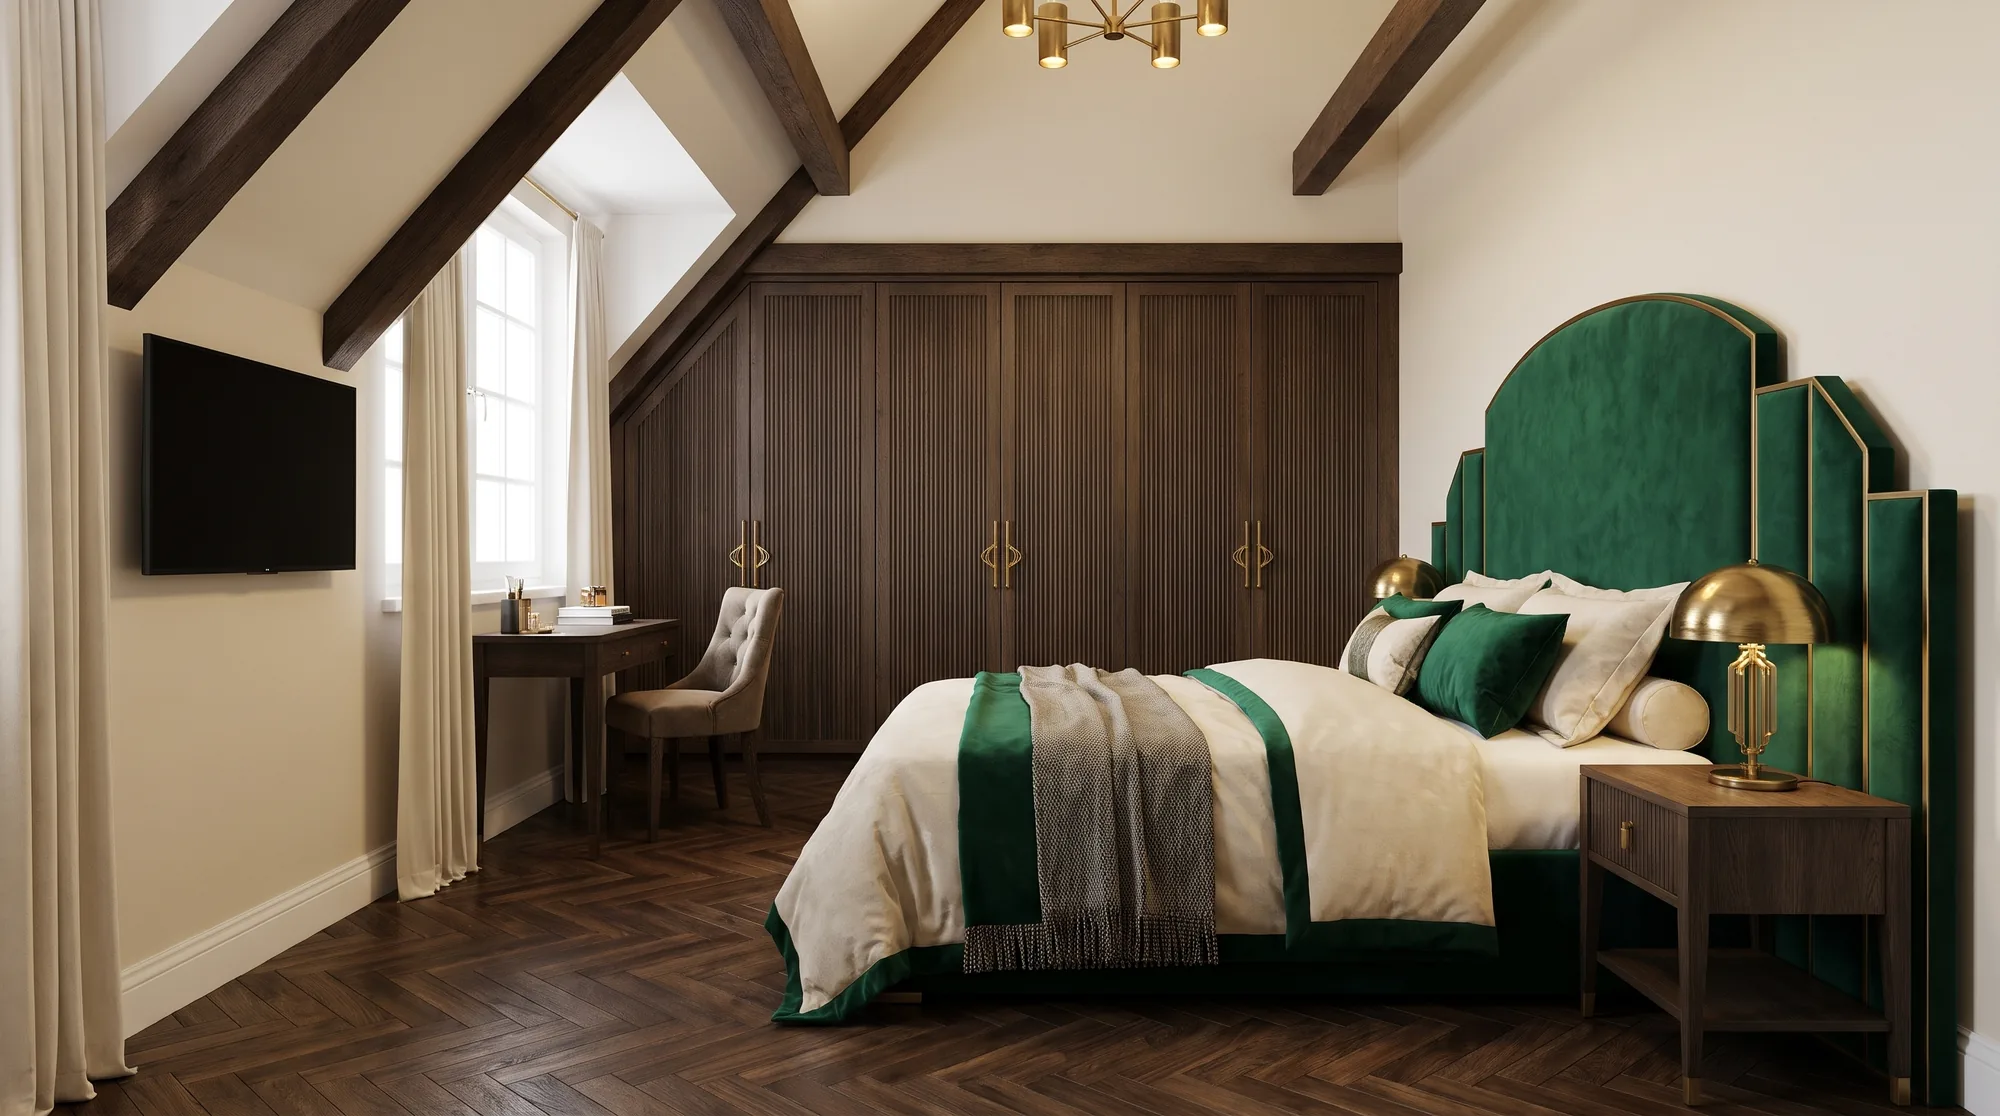
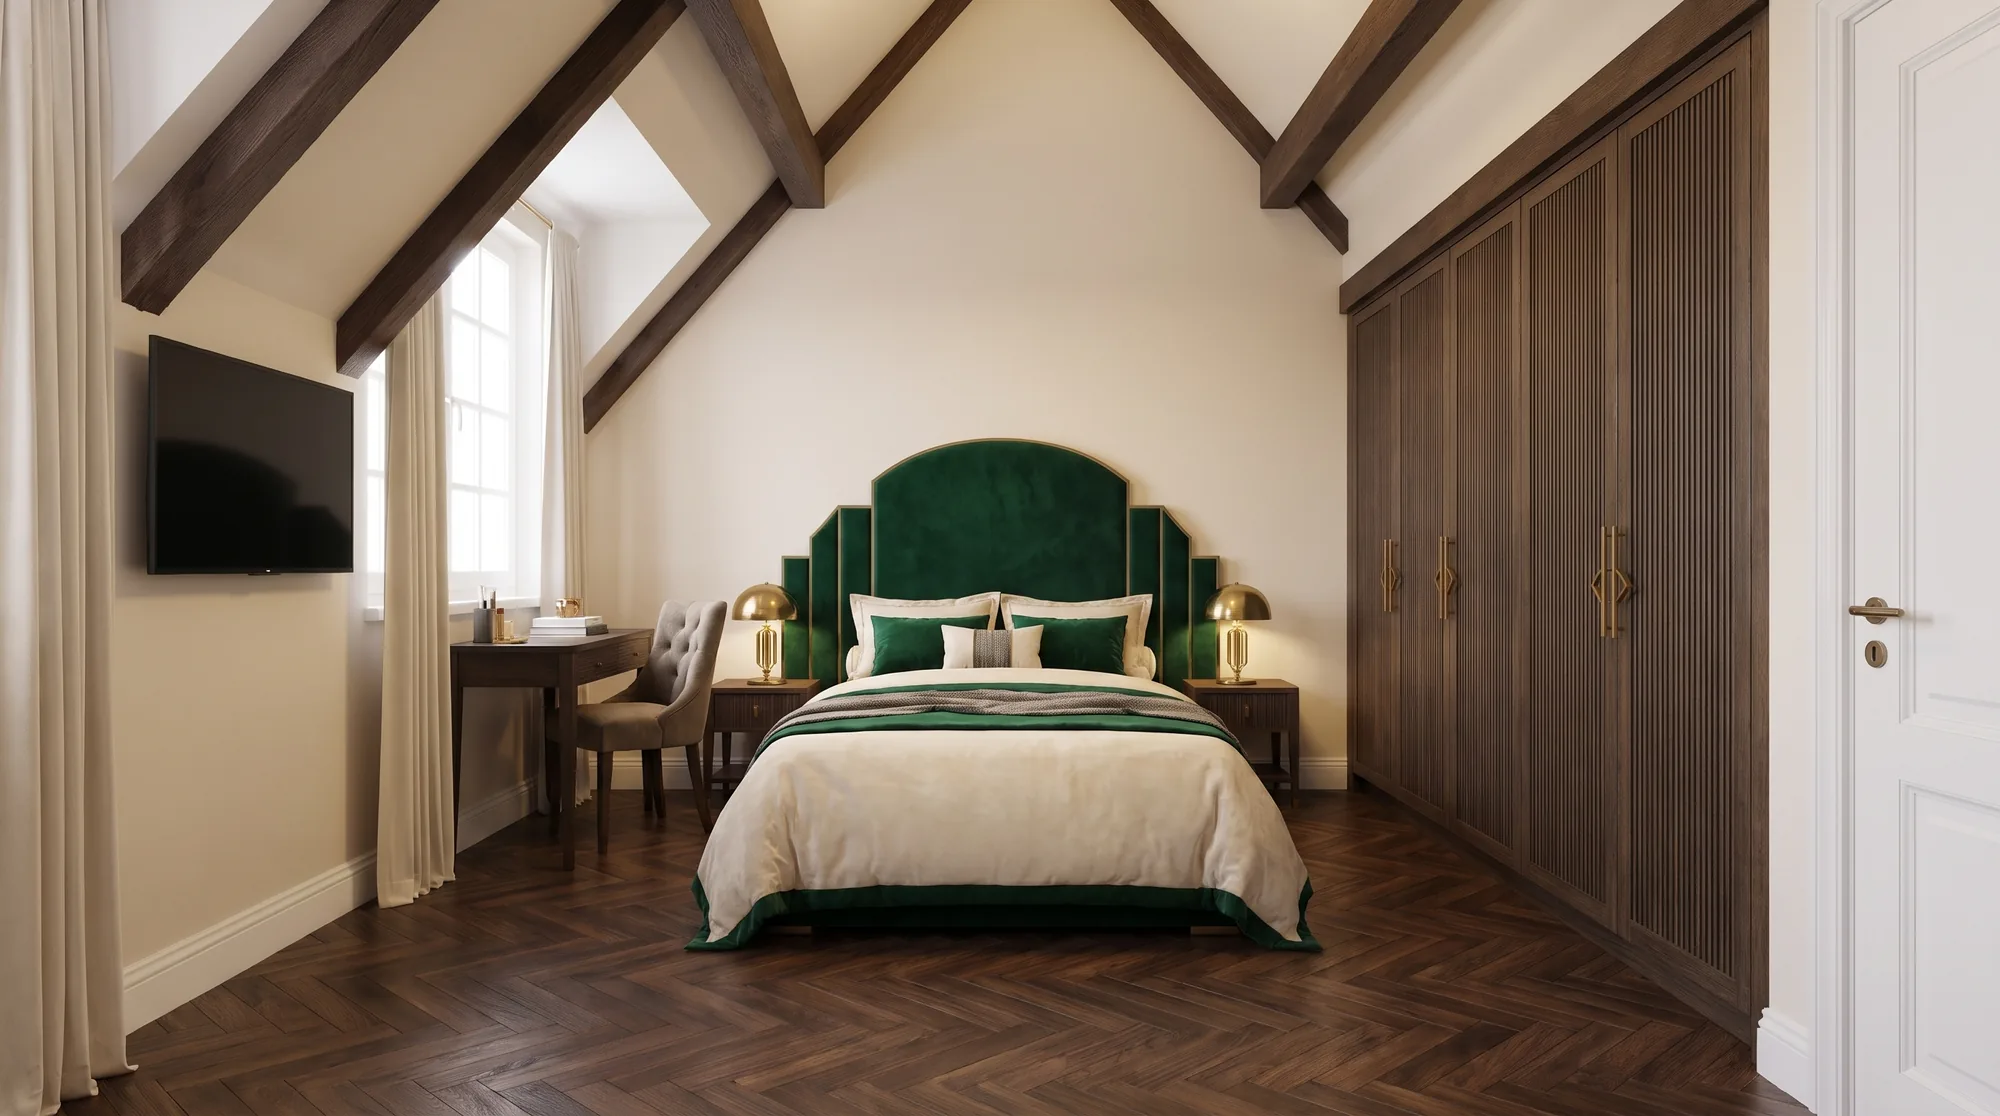
Lakások: pontos felülnézetek és új enteriőrök az 1., 3., 4. és 5. lakáshoz
Claude-Session: https://claude.ai/code/session_018xvr5icGNy1B7YPTSB9UEA

diff --git a/index.html b/index.html
@@ -624,19 +624,20 @@ footer li{list-style:none;margin-bottom:8px}
             <button class="btn btn-solid fp-cta" data-flat="3. lakás — 2. emelet, 71,62 m²">Ajánlatot kérek erre a lakásra</button>
           </div>
         </header>
-        <div class="fp-views" role="group" aria-label="Nézet"><button class="fv-btn" aria-pressed="true" data-view="top1">Alsó szint</button><button class="fv-btn" aria-pressed="false" data-view="top2">Felső szint</button><button class="fv-btn" aria-pressed="false" data-view="plan">Alaprajz m²-rel</button></div>
+        <div class="fp-views" role="group" aria-label="Nézet"><button class="fv-btn" aria-pressed="true" data-view="t0">Alsó szint</button><button class="fv-btn" aria-pressed="false" data-view="t1">Felső szint</button><button class="fv-btn" aria-pressed="false" data-view="plan">Alaprajz m²-rel</button></div>
         <div class="fp-plan">
-          <figure class="fv lbx" data-view="top1" data-cap="3. lakás – alsó szint, berendezett felülnézet"><img src="images/lakasok/l3-felulnezet-also.webp" alt="A 3. lakás alsó szintjének berendezett felülnézete: nappali-étkező lépcsővel, konyha, előszoba, WC" loading="lazy"></figure>
-          <figure class="fv lbx" data-view="top2" data-cap="3. lakás – felső szint, berendezett felülnézet" hidden><img src="images/lakasok/l3-felulnezet-felso.webp" alt="A 3. lakás felső szintjének berendezett felülnézete: két hálószoba és fürdőszoba" loading="lazy"></figure>
+          <figure class="fv lbx" data-view="t0" data-cap="3. lakás – alsó szint, berendezett felülnézet"><img src="images/lakasok/l3-felulnezet-also.webp" alt="A 3. lakás alsó szint, berendezett felülnézet" loading="lazy"></figure>
+          <figure class="fv lbx" data-view="t1" data-cap="3. lakás – felső szint, berendezett felülnézet" hidden><img src="images/lakasok/l3-felulnezet-felso.webp" alt="A 3. lakás felső szint, berendezett felülnézet" loading="lazy"></figure>
           <figure class="fv lbx" data-view="plan" data-cap="3. lakás – alaprajz" hidden><img src="images/lakasok/l3-alaprajz.webp" alt="A 3. lakás alaprajza helyiségenkénti alapterülettel" loading="lazy"></figure>
         </div>
-        <p class="fp-note fp-note-plan"><b>Alaprajz a tervek alapján.</b> Az alaprajz és a felülnézetek a jóváhagyott tervrajz szerinti elrendezést mutatja; a helyiségenkénti területek számított, tájékoztató értékek, a lakás hivatalos hasznos alapterülete 71,62 m².</p>
+        <p class="fp-note fp-note-plan"><b>Alaprajz a tervek alapján.</b> Az alaprajz és a berendezett felülnézet a jóváhagyott tervrajz szerinti elrendezést mutatja; a helyiségenkénti területek számított, tájékoztató értékek, a lakás hivatalos hasznos alapterülete 71,62 m².</p>
         <div class="fp-gal">
-          <figure class="lbx" data-cap="Nappali"><img src="images/lakasok/l3-nappali.webp" alt="Nappali – smaragdzöld bársonykanapé, márvány dohányzóasztal, lépcső a felső szintre" loading="lazy"><figcaption>Nappali</figcaption></figure>
-          <figure class="lbx" data-cap="Étkező és konyha"><img src="images/lakasok/l3-etkezo-konyha.webp" alt="Étkező és konyha – smaragdzöld lakkozott konyhabútor Verde Alpi márvánnyal, sárgaréz csillár" loading="lazy"><figcaption>Étkező és konyha</figcaption></figure>
-          <figure class="lbx" data-cap="Hálószoba"><img src="images/lakasok/l3-haloszoba-1.webp" alt="Tetőtéri hálószoba – íves smaragd bársony ágytámla, bordázott tölgy beépített szekrény, gerendák" loading="lazy"><figcaption>Hálószoba</figcaption></figure>
-          <figure class="lbx" data-cap="Második hálószoba"><img src="images/lakasok/l3-haloszoba-2.webp" alt="Második tetőtéri hálószoba – íróasztal az ablaknál, beépített szekrény, kerek sárgaréz tükör" loading="lazy"><figcaption>Második hálószoba</figcaption></figure>
-          <figure class="lbx" data-cap="Fürdőszoba"><img src="images/lakasok/l3-furdoszoba.webp" alt="Tetőtéri fürdőszoba – Verde Alpi zöld márvány, kád, kerek kőmosdó, sárgaréz szerelvények" loading="lazy"><figcaption>Fürdőszoba</figcaption></figure>
+          <figure class="lbx" data-cap="Nappali és étkező"><img src="images/lakasok/l3-nappali.webp" alt="Nappali és étkező – smaragd bársonykanapé, fotelek, étkezőasztal, lépcső a felső szintre" loading="lazy"><figcaption>Nappali és étkező</figcaption></figure>
+          <figure class="lbx" data-cap="Konyha"><img src="images/lakasok/l3-konyha.webp" alt="Konyha – smaragdzöld konyhabútor Verde Alpi márvánnyal, két párhuzamos pultsor" loading="lazy"><figcaption>Konyha</figcaption></figure>
+          <figure class="lbx" data-cap="Előszoba"><img src="images/lakasok/l3-eloszoba.webp" alt="Előszoba – gardrób akasztóval és ülőpaddal, kilátás a nappaliba és a WC-be" loading="lazy"><figcaption>Előszoba</figcaption></figure>
+          <figure class="lbx" data-cap="Hálószoba (tetőtér)"><img src="images/lakasok/l3-haloszoba-1.webp" alt="Tetőtéri hálószoba – íves smaragd ágytámla, beépített szekrényfal, gerendák" loading="lazy"><figcaption>Hálószoba (tetőtér)</figcaption></figure>
+          <figure class="lbx" data-cap="Második hálószoba"><img src="images/lakasok/l3-haloszoba-2.webp" alt="Második tetőtéri hálószoba – íróasztal az ablaknál, beépített szekrény" loading="lazy"><figcaption>Második hálószoba</figcaption></figure>
+          <figure class="lbx" data-cap="Fürdőszoba"><img src="images/lakasok/l3-furdoszoba.webp" alt="Tetőtéri fürdőszoba – Verde Alpi márvány, kád, kerek kőmosdó" loading="lazy"><figcaption>Fürdőszoba</figcaption></figure>
         </div>
         <p class="fp-note"><b>Tájékoztató jellegű látványképek.</b> A belső képek illusztrációk: a berendezés, a bútorok, a világítás és az anyaghasználat a hangulatot mutatják, nem képezik az eladás tárgyát.</p>
       </article>
@@ -653,11 +654,19 @@ footer li{list-style:none;margin-bottom:8px}
             <button class="btn btn-solid fp-cta" data-flat="4. lakás — tetőtéri szint, 52,97 m²">Ajánlatot kérek erre a lakásra</button>
           </div>
         </header>
-        <div class="fp-plan fp-plan-only">
-          <figure class="fv lbx" data-view="plan" data-cap="4. lakás – alaprajz"><img src="images/lakasok/l4-alaprajz.webp" alt="A 4. lakás alaprajza helyiségenkénti alapterülettel" loading="lazy"></figure>
+        <div class="fp-views" role="group" aria-label="Nézet"><button class="fv-btn" aria-pressed="true" data-view="t0">Berendezett felülnézet</button><button class="fv-btn" aria-pressed="false" data-view="plan">Alaprajz m²-rel</button></div>
+        <div class="fp-plan">
+          <figure class="fv lbx" data-view="t0" data-cap="4. lakás – berendezett felülnézet"><img src="images/lakasok/l4-felulnezet.webp" alt="A 4. lakás berendezett felülnézet" loading="lazy"></figure>
+          <figure class="fv lbx" data-view="plan" data-cap="4. lakás – alaprajz" hidden><img src="images/lakasok/l4-alaprajz.webp" alt="A 4. lakás alaprajza helyiségenkénti alapterülettel" loading="lazy"></figure>
         </div>
-        <p class="fp-note fp-note-plan"><b>Alaprajz a tervek alapján.</b> Az alaprajz a jóváhagyott tervrajz szerinti elrendezést mutatja; a helyiségenkénti területek számított, tájékoztató értékek, a lakás hivatalos hasznos alapterülete 52,97 m².</p>
-        <div class="fp-soon"><span>Enteriőr látványtervek hamarosan</span><a href="#ajanlat" class="fp-soon-link" data-flat="4. lakás — tetőtéri szint, 52,97 m²">Kérje el elsőként</a></div>
+        <p class="fp-note fp-note-plan"><b>Alaprajz a tervek alapján.</b> Az alaprajz és a berendezett felülnézet a jóváhagyott tervrajz szerinti elrendezést mutatja; a helyiségenkénti területek számított, tájékoztató értékek, a lakás hivatalos hasznos alapterülete 52,97 m².</p>
+        <div class="fp-gal">
+          <figure class="lbx" data-cap="Nappali, étkező és konyha"><img src="images/lakasok/l4-nappali.webp" alt="Nappali, étkező és konyha egy légtérben – tetőtéri gerendák, üvegtégla sáv, bouclé kanapé" loading="lazy"><figcaption>Nappali, étkező és konyha</figcaption></figure>
+          <figure class="lbx" data-cap="Konyha"><img src="images/lakasok/l4-konyha.webp" alt="U alakú konyha travertin pulttal és terrakotta csempével" loading="lazy"><figcaption>Konyha</figcaption></figure>
+          <figure class="lbx" data-cap="Hálószoba"><img src="images/lakasok/l4-haloszoba.webp" alt="Hálószoba – beépített szekrényfal TV-vel, terrakotta ágytámla" loading="lazy"><figcaption>Hálószoba</figcaption></figure>
+          <figure class="lbx" data-cap="Fürdőszoba"><img src="images/lakasok/l4-furdoszoba.webp" alt="Fürdőszoba – travertin kád, beépített mosógép, kőmosdó" loading="lazy"><figcaption>Fürdőszoba</figcaption></figure>
+        </div>
+        <p class="fp-note"><b>Tájékoztató jellegű látványképek.</b> A belső képek illusztrációk: a berendezés, a bútorok, a világítás és az anyaghasználat a hangulatot mutatják, nem képezik az eladás tárgyát.</p>
       </article>
       <article class="flat-panel" id="lakas-5" role="tabpanel" aria-labelledby="ft-5" hidden>
         <header class="fp-head">
@@ -672,11 +681,19 @@ footer li{list-style:none;margin-bottom:8px}
             <button class="btn btn-solid fp-cta" data-flat="5. lakás — tetőtéri szint, 51,16 m²">Ajánlatot kérek erre a lakásra</button>
           </div>
         </header>
-        <div class="fp-plan fp-plan-only">
-          <figure class="fv lbx" data-view="plan" data-cap="5. lakás – alaprajz"><img src="images/lakasok/l5-alaprajz.webp" alt="Az 5. lakás alaprajza helyiségenkénti alapterülettel" loading="lazy"></figure>
+        <div class="fp-views" role="group" aria-label="Nézet"><button class="fv-btn" aria-pressed="true" data-view="t0">Berendezett felülnézet</button><button class="fv-btn" aria-pressed="false" data-view="plan">Alaprajz m²-rel</button></div>
+        <div class="fp-plan">
+          <figure class="fv lbx" data-view="t0" data-cap="5. lakás – berendezett felülnézet"><img src="images/lakasok/l5-felulnezet.webp" alt="Az 5. lakás berendezett felülnézet" loading="lazy"></figure>
+          <figure class="fv lbx" data-view="plan" data-cap="5. lakás – alaprajz" hidden><img src="images/lakasok/l5-alaprajz.webp" alt="Az 5. lakás alaprajza helyiségenkénti alapterülettel" loading="lazy"></figure>
         </div>
-        <p class="fp-note fp-note-plan"><b>Alaprajz a tervek alapján.</b> Az alaprajz a jóváhagyott tervrajz szerinti elrendezést mutatja; a helyiségenkénti területek számított, tájékoztató értékek, a lakás hivatalos hasznos alapterülete 51,16 m².</p>
-        <div class="fp-soon"><span>Enteriőr látványtervek hamarosan</span><a href="#ajanlat" class="fp-soon-link" data-flat="5. lakás — tetőtéri szint, 51,16 m²">Kérje el elsőként</a></div>
+        <p class="fp-note fp-note-plan"><b>Alaprajz a tervek alapján.</b> Az alaprajz és a berendezett felülnézet a jóváhagyott tervrajz szerinti elrendezést mutatja; a helyiségenkénti területek számított, tájékoztató értékek, a lakás hivatalos hasznos alapterülete 51,16 m².</p>
+        <div class="fp-gal">
+          <figure class="lbx" data-cap="Nappali, étkező és konyha"><img src="images/lakasok/l5-nappali.webp" alt="Nappali, étkező és konyha – bársony ülőbútorok, üvegajtók, márvány konyha" loading="lazy"><figcaption>Nappali, étkező és konyha</figcaption></figure>
+          <figure class="lbx" data-cap="Konyha"><img src="images/lakasok/l5-konyha.webp" alt="Konyha – füstölt tölgy frontok, Calacatta márvány, üvegtégla sáv" loading="lazy"><figcaption>Konyha</figcaption></figure>
+          <figure class="lbx" data-cap="Hálószoba"><img src="images/lakasok/l5-haloszoba.webp" alt="Hálószoba – bársony ágytámla, márvány éjjeliszekrények, kilátás a gardróbba" loading="lazy"><figcaption>Hálószoba</figcaption></figure>
+          <figure class="lbx" data-cap="Fürdőszoba"><img src="images/lakasok/l5-furdoszoba.webp" alt="Fürdőszoba – Calacatta márvány zuhany, kőmosdó, világító tükör" loading="lazy"><figcaption>Fürdőszoba</figcaption></figure>
+        </div>
+        <p class="fp-note"><b>Tájékoztató jellegű látványképek.</b> A belső képek illusztrációk: a berendezés, a bútorok, a világítás és az anyaghasználat a hangulatot mutatják, nem képezik az eladás tárgyát.</p>
       </article>
     </div>
     <p class="tnote caption">Összes hasznos lakóterület: 295,80 m². Az adatok tájékoztató jellegűek.</p>
